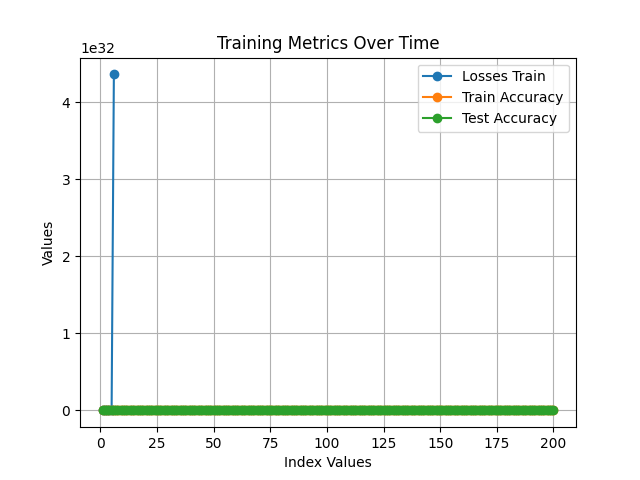
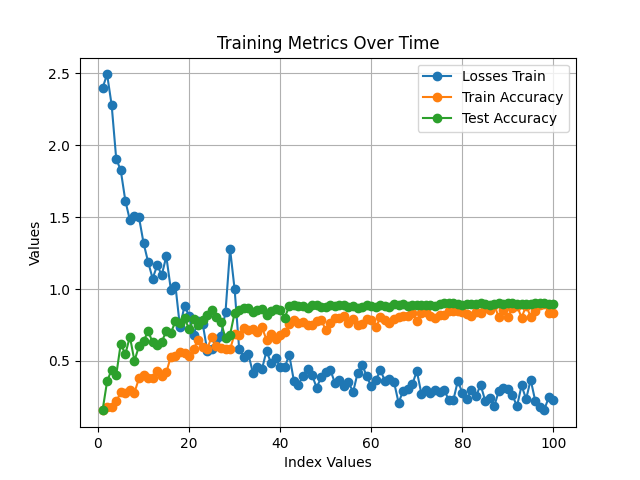
4_23check

diff --git a/src/main.py b/src/main.py
@@ -33,7 +33,7 @@ device = torch.device('cuda:0' if torch.cuda.is_available() else 'cpu')
 
 parser = argparse.ArgumentParser(description='Example script with global variable.')
 
-parser.add_argument('--dataset', type=str, help='dataset, cifar或者minst', default='mnist')
+parser.add_argument('--dataset', type=str, help='dataset, cifar或者mnist', default='mnist')
 parser.add_argument('--model', type=str, help='model, cnn(cifar的cnn 343946个参数)或者mlp(50890个参数)', default='mlp')
 parser.add_argument('--if_batch', type=int, help='是否使用minibatchgd', default=0)
 parser.add_argument('--if_prune', type=int, help='是否prune', default=0)
@@ -46,7 +46,7 @@ parser.add_argument('--loss_func', type=str, help='loss_func, 可以为crossentr
 parser.add_argument('--local_bs', type=int, help='local_bs', default=290)
 parser.add_argument('--local_ep', type=int, help='local_ep', default=1)
 parser.add_argument('--optimizer', type=str, help='optimizer, 可以为sgd或adam', default='sgd')
-parser.add_argument('--num_epoch', type=int, help='num_epoch', default=200)   # num_epoch是每轮全局迭代的最大轮次  
+parser.add_argument('--num_epoch', type=int, help='num_epoch', default=100)   # num_epoch是每轮全局迭代的最大轮次  
 parser.add_argument('--mean_datanum', type=int, help='节点平均的数据量', default=300)
 
 parser.add_argument('--wer', type=float, help='wer', default=0.0065)    # wer是信道条件Rayleigh fading factor

diff --git a/src/FEDAVG.py b/src/FEDAVG.py
@@ -43,18 +43,33 @@ class Server:
     # 梯度聚合
     def aggregate(self, w, alpha):
         w_avg = copy.deepcopy(w[0])
+        for key in w_avg.keys():
+            w_avg[key] = torch.zeros_like(w_avg[key])
+
         alpha_weight = [self.N_us[i]*alpha[i] for i in range(len(w))]
         alpha_weight = [i/sum(alpha_weight) for i in alpha_weight]
         if torch.all(alpha==0):
             print('alpha all zero')
-            for key in w_avg.keys():
-                w_avg[key] = torch.zeros_like(w_avg[key])
+            
         else:
             for key in w_avg.keys():
-                for i in range(1, len(w)):
-                    w_avg[key] += w[i][key]*torch.tensor(alpha_weight)[i]
+                for i in range(len(w)):
+                    w_avg[key] += w[i][key]*alpha_weight[i]
                 # w_avg[key] = torch.div(w_avg[key], sum(alpha))
         return w_avg
+
+        # w_avg = copy.deepcopy(w[0])
+        # if torch.all(alpha==0):
+        #     print('alpha all zero')
+        #     for key in w_avg.keys():
+        #         w_avg[key] = torch.zeros_like(w_avg[key])
+        # else:
+        #     for key in w_avg.keys():
+        #         for i in range(1, len(w)):
+        #             w_avg[key] += w[i][key]*alpha[i]
+        #         w_avg[key] = torch.div(w_avg[key], sum(alpha))
+        # return w_avg
+
     # 梯度下降更新模型参数
     def update(self, avg_weights):
         # with torch.no_grad():

diff --git a/src/MINISGD.py b/src/MINISGD.py
@@ -47,15 +47,17 @@ class Server:
     # 梯度聚合
     def aggregate(self, gradients, alpha):
         avg_gradients = copy.deepcopy(gradients[0])
+        for key in avg_gradients.keys():
+            avg_gradients[key] = torch.zeros_like(avg_gradients[key])
+
         alpha_weight = [self.N_us[i]*alpha[i] for i in range(len(gradients))]
         alpha_weight = [i/sum(alpha_weight) for i in alpha_weight]
         if torch.all(alpha==0):
             print('alpha all zero')
-            for key in avg_gradients.keys():
-                avg_gradients[key] = torch.zeros_like(avg_gradients[key])
+            
         else:
             for key in avg_gradients.keys():
-                for i in range(1, len(gradients)):
+                for i in range(len(gradients)):
                     avg_gradients[key] += gradients[i][key]*alpha_weight[i]
                 # avg_gradients[key] = torch.div(avg_gradients[key], sum(alpha))
         
